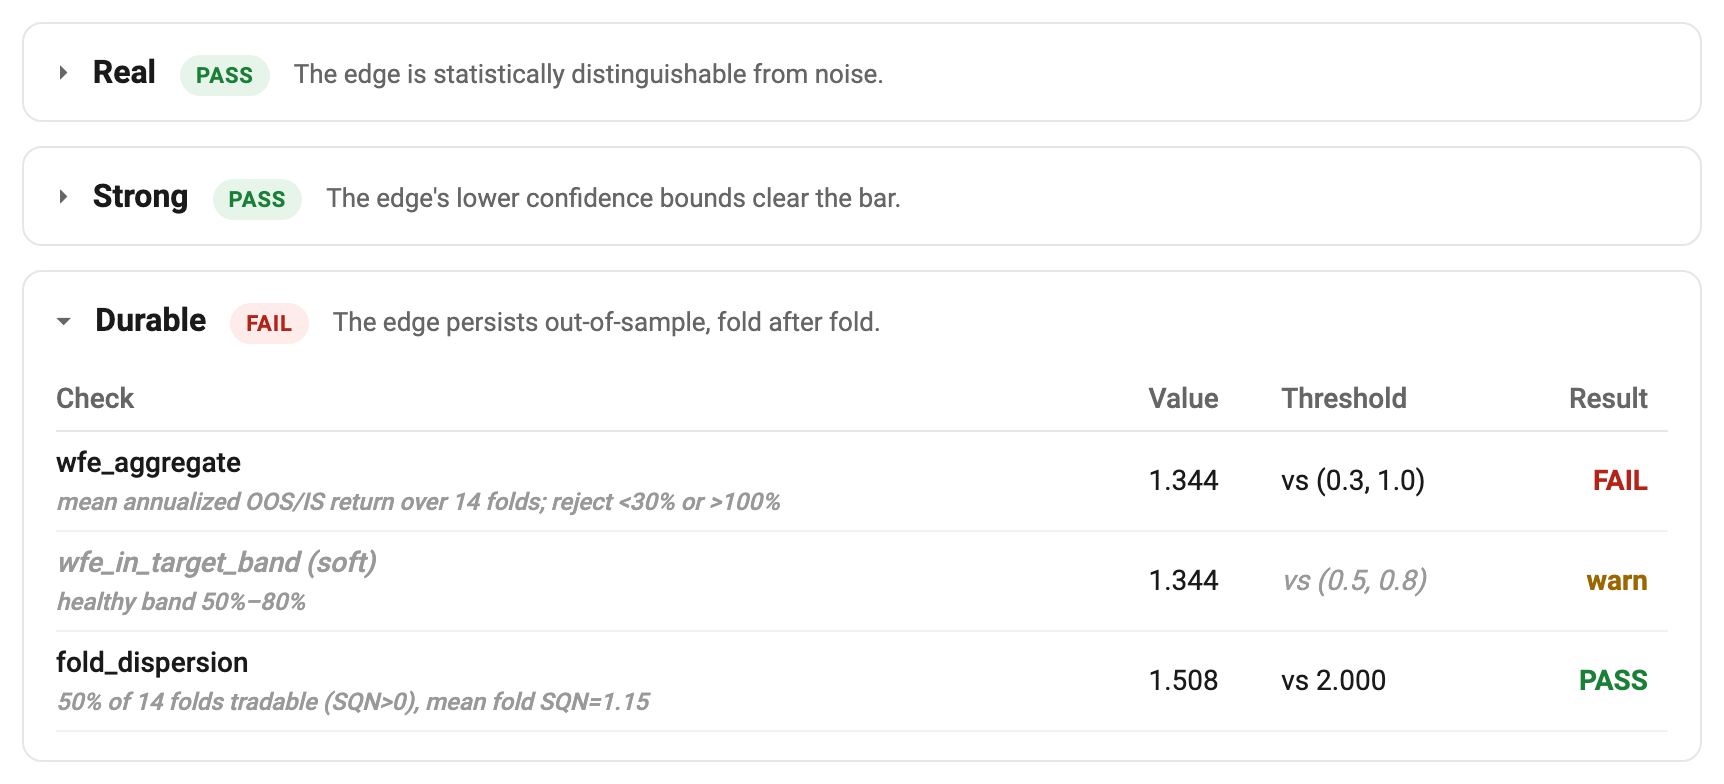
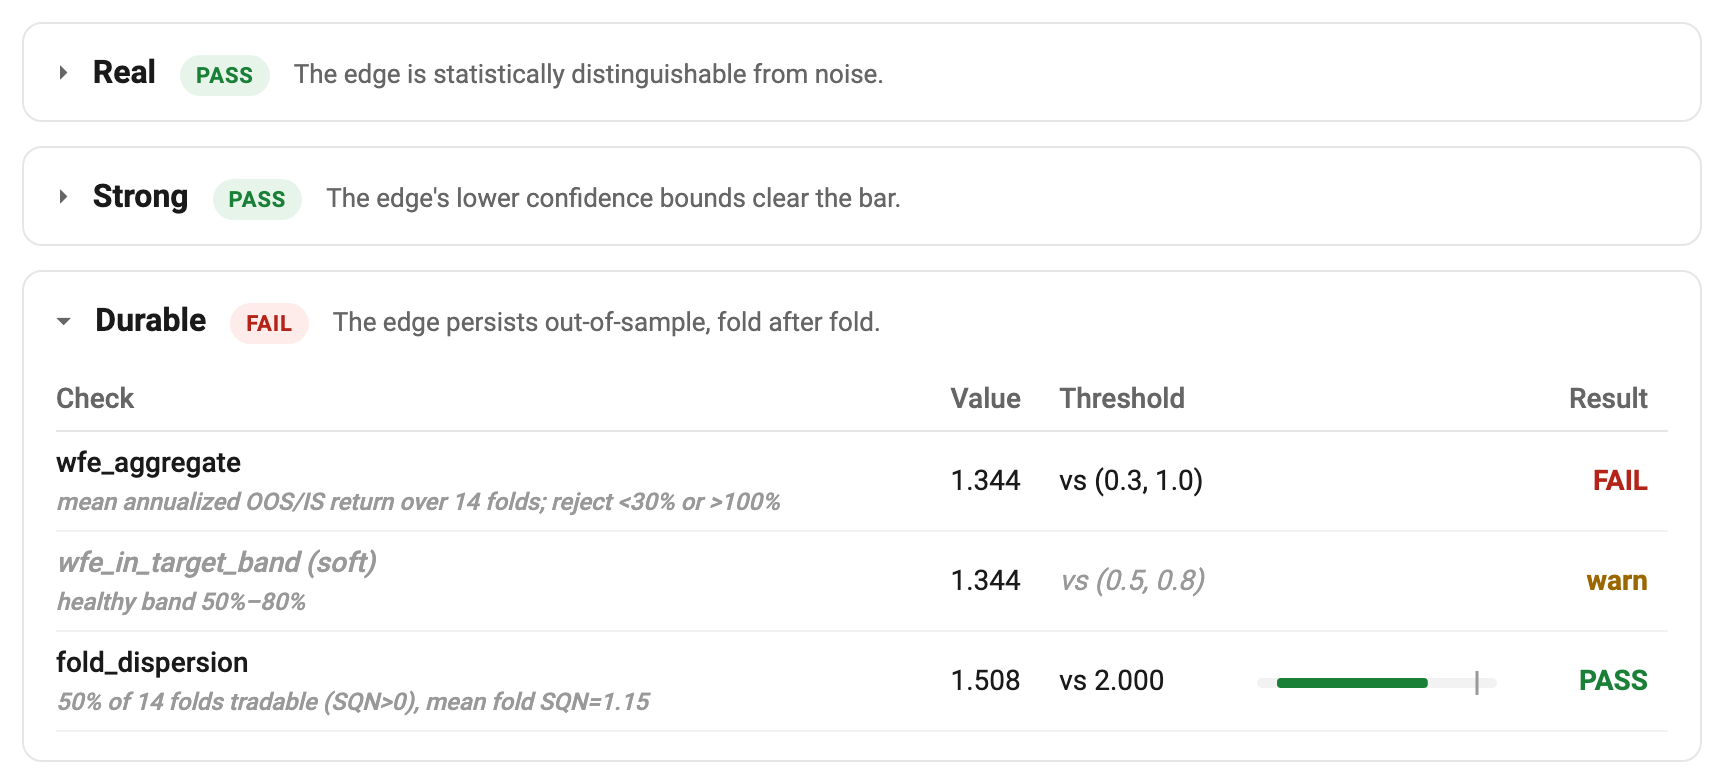
docs: refresh report figures — show the "costs not attested" note
The §12 hero and the §11 scope figures are built from report sub-blocks
(verdict_banner + metrics + summary), not gauntlet_report, so a plain
re-run would not have picked up the new cost note. Adds it to both sheets
via the shared _COSTS_NOT_ATTESTED constant — the synthetic Donchian book
carries no costs, so "costs not attested" is the honest, on-message read
right where the tutorial now teaches it.

Regenerating also brings gauntlet_gates.png in sync with current report
rendering (layout drift since it was last generated); content is
unchanged — REAL/STRONG pass, DURABLE fails on wfe_aggregate 1.344. The
other five figures and both logos regenerated byte-identical.

diff --git a/docs/gen_figures.py b/docs/gen_figures.py
@@ -137,7 +137,7 @@ def report_sheets() -> dict[str, str]:
     from crucible.validation import walk_forward, run_gauntlet, Thresholds
     from crucible.report import (verdict_banner, metrics_table, verdict_summary,
                                  gate_block, cumulative_r, report_css)
-    from crucible.report.tearsheet import _PILLARS, _plotly
+    from crucible.report.tearsheet import _PILLARS, _plotly, _COSTS_NOT_ATTESTED
 
     px = dg.synthetic_prices()
     tp, sl, to = 2.5, 1.0, 30
@@ -147,10 +147,13 @@ def report_sheets() -> dict[str, str]:
                      n_variants=2, thr=Thresholds(n_boot=5000, n_perm=5000, n_random_sims=500))
     trades = wf.stitched
     css = report_css()
+    # the §12 synthetic book carries no costs, so the report's default cost note is
+    # the honest read here — mirror what gauntlet_report() stamps under the verdict
+    note = f"<div class='cr-hostnote'>{_COSTS_NOT_ATTESTED}</div>"
 
     hero = (verdict_banner(g, title="Donchian breakout — the gauntlet",
                            subtitle="stitched OOS log · 20/40 lookback search")
-            + metrics_table(trades) + verdict_summary(g))
+            + metrics_table(trades) + verdict_summary(g) + note)
     by = {x.name: x for x in g.gates}
     gates = "".join(gate_block(by[p]) for p in _PILLARS if p in by)
 
@@ -174,7 +177,7 @@ def report_sheets() -> dict[str, str]:
                              _FakeGate("DURABLE", True), _FakeGate("GENERAL", False)])
     scope = (verdict_banner(scope_g, title="A scope-limited edge",
                             subtitle="core validated · cross-market generalization unproven")
-             + metrics_table(trades) + verdict_summary(scope_g))
+             + metrics_table(trades) + verdict_summary(scope_g) + note)
 
     go, _ = _plotly()
     cr = cumulative_r(trades)